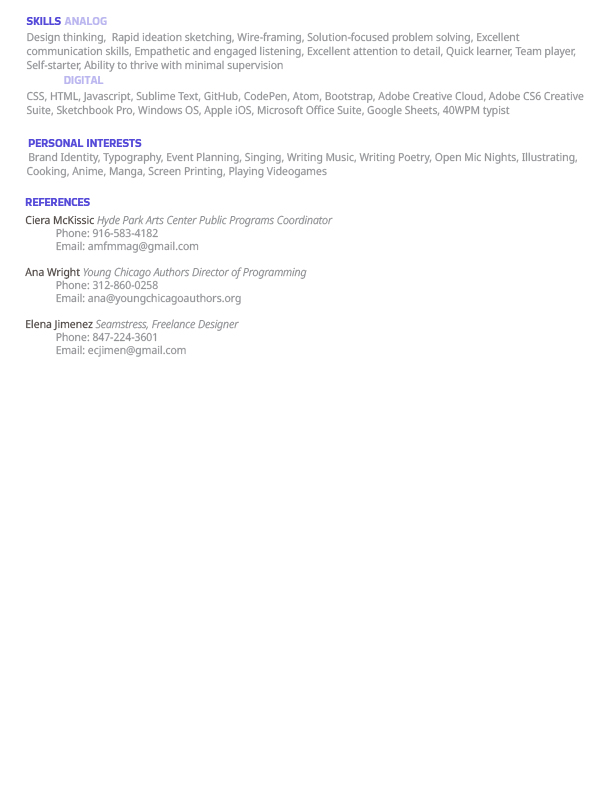
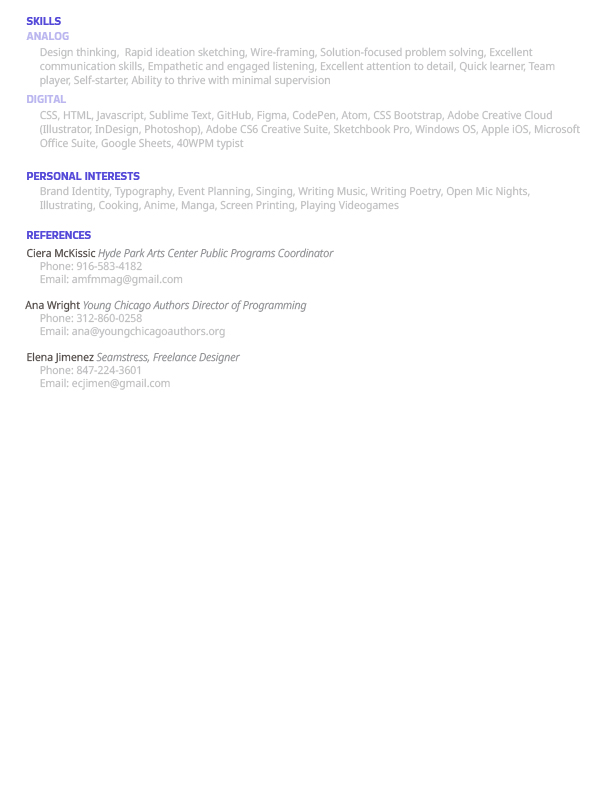
updated html
added new resume
added "figma" to skills section

Changed region(s): [[0.031, 0.0, 0.9314, 0.4848]]

diff --git a/index.html b/index.html
@@ -443,7 +443,7 @@
                   Image_Id.src = "img/web-design-closed.png";
                 }
                 if (Image_Id.src.match("img/web-design-open.png")) {
-                   explain3.innerHTML = "<p>HTML, CSS, Javascript, Sublime Text, Atom, Github, Codepen</p>"
+                   explain3.innerHTML = "<p>HTML, CSS, Javascript, Figma, Sublime Text, Atom, Github, Codepen</p>"
 
                 }
               if (Image_Id.src.match("img/web-design-closed.png")) {
